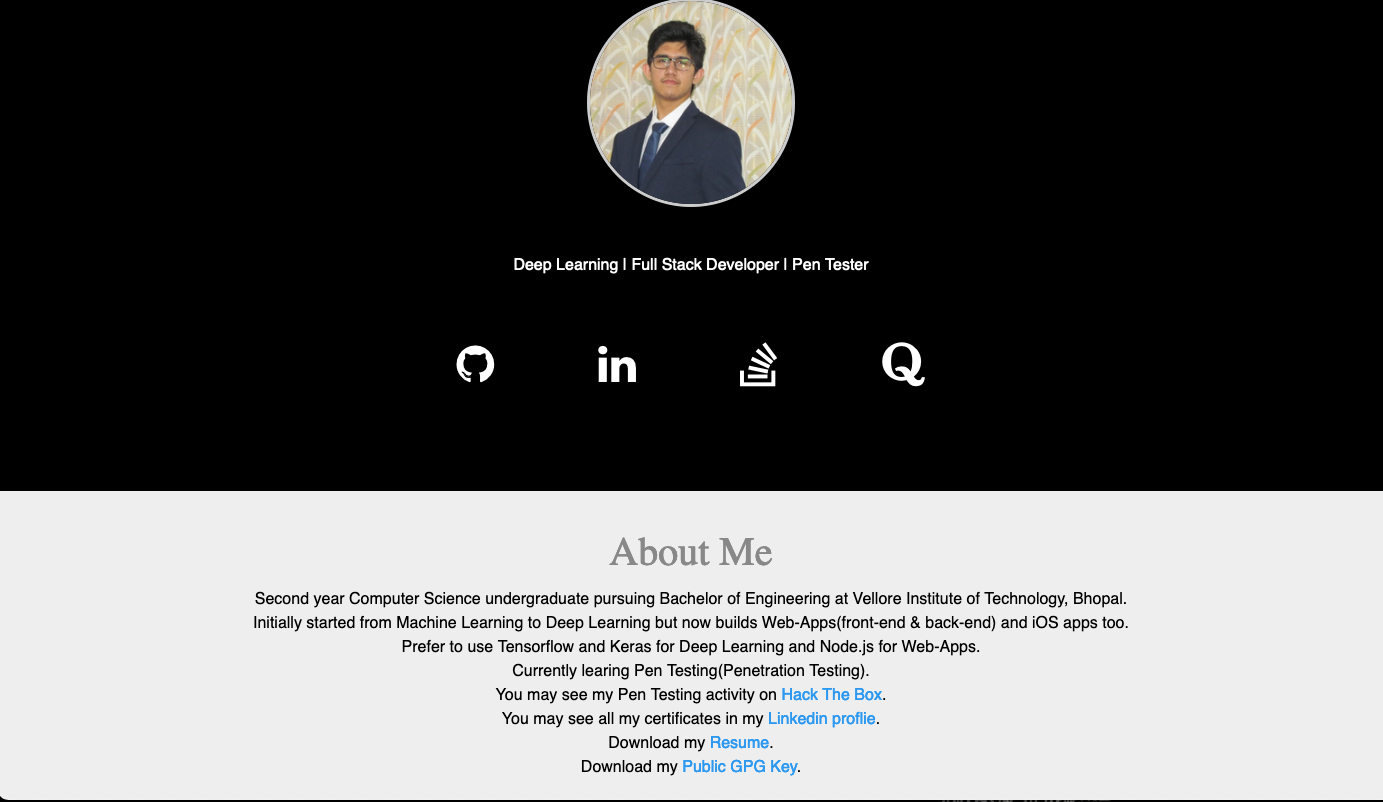
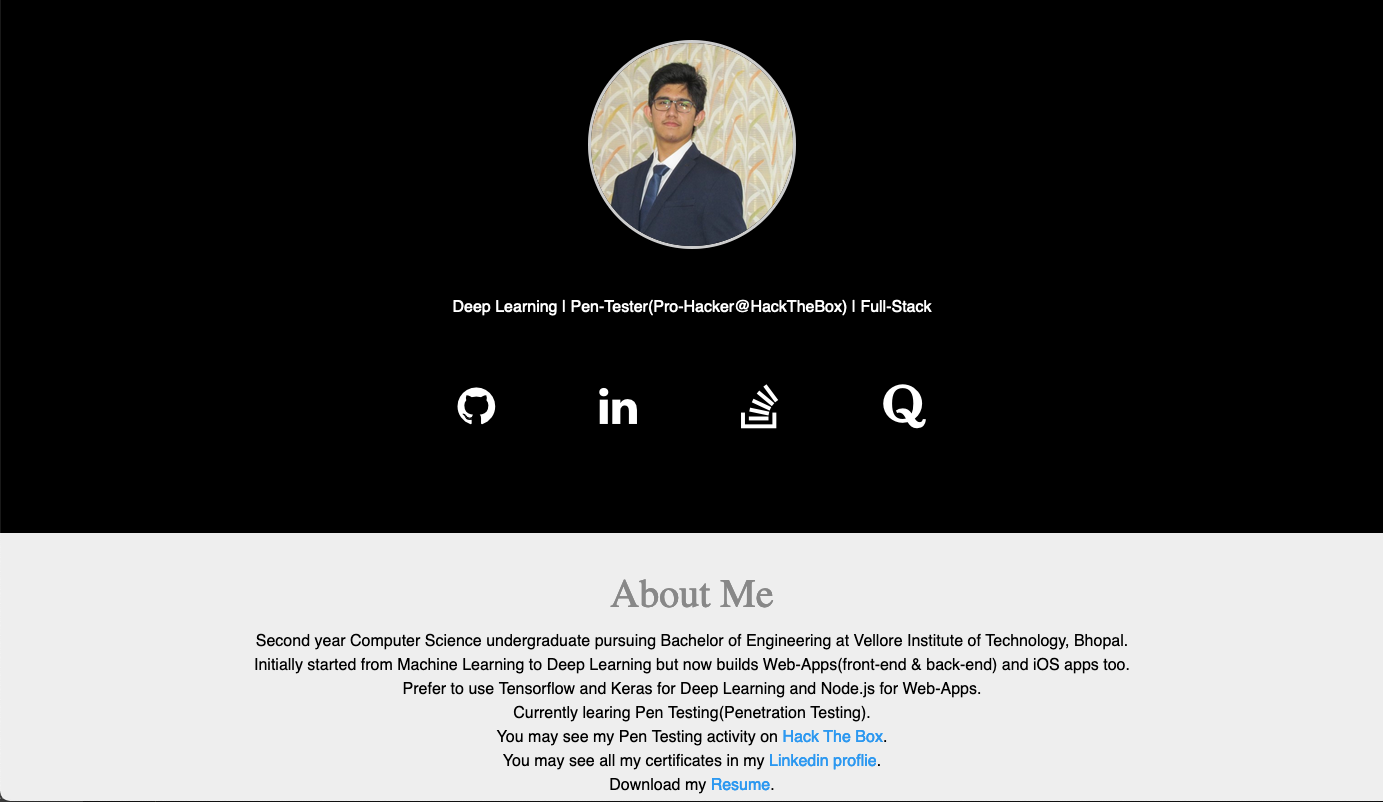
updates

diff --git a/index.html b/index.html
@@ -12,7 +12,7 @@
 	</script>
 
 	<title>Harshit Ruwali</title>
-	<meta charset="utf-8" name = "description" content="Second year Computer Science undergraduate. Deep Learning Enthusiast, Full Stack Developer and Pentester.">
+	<meta charset="utf-8" name = "description" content="Second year Computer Science undergraduate. Deep Learning Enthusiast, Pentester and Full Stack Developer.">
     <!--favicon-->
     <link rel="apple-touch-icon" sizes="180x180" href="img/index/apple-touch-icon.png">
     <link rel="icon" type="image/png" sizes="32x32" href="img/index/favicon-32x32.png">
@@ -52,7 +52,7 @@
         <div class="fixed-content">
             <img alt="Harshit Ruwali" class="port" src="img/pic01.jpg">
             <h2>Harshit Ruwali</h2>
-            <p style="color:#fff;">Deep Learning | Full Stack | Pen Tester</p>
+            <p style="color:#fff;">Deep Learning | Pen-Tester(Pro-Hacker@HackTheBox) | Full-Stack</p>
             <div class="icon-row">
                 <a href="https://github.com/harshitruwali" title="GitHub" target="_blank"><i class="fa fa-github"></i></a>
                 <a href="https://www.linkedin.com/in/harshitruwali/" title="Linkedin" target="_blank"><i class="fa fa-linkedin"></i></a>
@@ -70,10 +70,10 @@
                 
                 Initially started from Machine Learning to Deep Learning but now builds Web-Apps(front-end & back-end) and iOS apps too.<br>
                 Prefer to use Tensorflow and Keras for Deep Learning and Node.js for Web-Apps. <br>
-                Currently learing Pen Testing(Penetration Testing).
-                <br>You may see my Pen Testing activity on <a href="https://www.hackthebox.eu/profile/415817">Hack The Box</a>.
-                <br>You may see all my certificates in my <a href="https://www.linkedin.com/in/harshitruwali/">Linkedin proflie</a>. <br>
-                Download my <a href="resources/Resume.pdf" target="_blank" download="Resume-Harshit-Ruwali.pdf">Resume</a>.<br>
+                Currently learing Pen Testing(Penetration Testing).<br>
+                You may see my Pen-Testing activity on <a href="https://www.hackthebox.eu/profile/415817" target="_blank">Hack The Box</a>.<br>
+                You may see all my certificates in my <a href="https://www.linkedin.com/in/harshitruwali/" target="_blank">Linkedin proflie</a>. <br>
+                Download my <a href="resources/Resume.pdf" target="_blank" download="Resume-Harshit-Ruwali.pdf" target="_blank">Resume</a>.<br>
                 Download my <a href="resources/Harshit Ruwali (325A6F7A) – Public.asc" target="_blank" download="Harshit Ruwali (325A6F7A) – Public.asc">Public GPG Key</a>.
 
             </p>
@@ -122,8 +122,8 @@
             <div class="container">
                 <div class="row">
                     <script type="text/javascript">
-                        var skills = ["Deep Learning", "Full Stack", "iOS Developement", "Git", "Google FireBase", "AWS"];
-                        var value = [90, 90, 85, 90, 90, 90];
+                        var skills = ["Deep Learning", "Pen Testing", "Metasploit", "Full-Stack", " iOS Developement", "AWS", ];
+                        var value = [90, 85, 90, 90, 85, 90];
 
                         for (let i = 0; i < skills.length; i++) {
                             var dir = (i % 2 == 0) ? "Right" : "Left";

diff --git a/competitive-coding.html b/competitive-coding.html
@@ -24,12 +24,26 @@
 </head>
 
 <body>
-
+    <noscript>
+        <h3 id="javascript-disabled">JavaScript is disabled! Enable JavaScript to see the complete page.</h3>
+        <style>
+            #javascript-disabled {
+                text-align: center;
+                padding: 5px;
+                color: #888;
+            }
+            #about {display:none;}
+            #project {display:none;}
+            #skills {display:none;}
+            #experience {display:none;}
+            #project {display:none;}
+        </style>
+    </noscript>
     <div class="header">
         <div class="fixed-content">
-            <img alt="Harshit Ruwali" class="port" src="../img/pic01.jpg">
+            <img alt="Harshit Ruwali" class="port" src="img/pic01.jpg">
             <h2>Harshit Ruwali</h2>
-            <p style="color:#fff;">Deep Learning | Full Stack | Pen Tester</p>
+            <p style="color:#fff;">Deep Learning | Pen-Tester(Pro-Hacker@HackTheBox) | Full-Stack</p>
             <div class="icon-row">
                 <a href="https://github.com/harshitruwali" title="GitHub" target="_blank"><i class="fa fa-github"></i></a>
                 <a href="https://www.linkedin.com/in/harshitruwali/" title="Linkedin" target="_blank"><i class="fa fa-linkedin"></i></a>

diff --git a/deep-learning.html b/deep-learning.html
@@ -24,11 +24,26 @@
 </head>
 
 <body>
+    <noscript>
+        <h3 id="javascript-disabled">JavaScript is disabled! Enable JavaScript to see the complete page.</h3>
+        <style>
+            #javascript-disabled {
+                text-align: center;
+                padding: 5px;
+                color: #888;
+            }
+            #about {display:none;}
+            #project {display:none;}
+            #skills {display:none;}
+            #experience {display:none;}
+            #project {display:none;}
+        </style>
+    </noscript>
     <div class="header">
         <div class="fixed-content">
-            <img alt="Harshit Ruwali" class="port" src="../img/pic01.jpg">
+            <img alt="Harshit Ruwali" class="port" src="img/pic01.jpg">
             <h2>Harshit Ruwali</h2>
-            <p style="color:#fff;">Deep Learning | Full Stack | Pen Tester</p>
+            <p style="color:#fff;">Deep Learning | Pen-Tester(Pro-Hacker@HackTheBox) | Full-Stack</p>
             <div class="icon-row">
                 <a href="https://github.com/harshitruwali" title="GitHub" target="_blank"><i class="fa fa-github"></i></a>
                 <a href="https://www.linkedin.com/in/harshitruwali/" title="Linkedin" target="_blank"><i class="fa fa-linkedin"></i></a>

diff --git a/ios.html b/ios.html
@@ -24,11 +24,26 @@
 </head>
 
 <body>
+    <noscript>
+        <h3 id="javascript-disabled">JavaScript is disabled! Enable JavaScript to see the complete page.</h3>
+        <style>
+            #javascript-disabled {
+                text-align: center;
+                padding: 5px;
+                color: #888;
+            }
+            #about {display:none;}
+            #project {display:none;}
+            #skills {display:none;}
+            #experience {display:none;}
+            #project {display:none;}
+        </style>
+    </noscript>
     <div class="header">
         <div class="fixed-content">
-            <img alt="Harshit Ruwali" class="port" src="../img/pic01.jpg">
+            <img alt="Harshit Ruwali" class="port" src="img/pic01.jpg">
             <h2>Harshit Ruwali</h2>
-            <p style="color:#fff;">Deep Learning | Full Stack | Pen Tester</p>
+            <p style="color:#fff;">Deep Learning | Pen-Tester(Pro-Hacker@HackTheBox) | Full-Stack</p>
             <div class="icon-row">
                 <a href="https://github.com/harshitruwali" title="GitHub" target="_blank"><i class="fa fa-github"></i></a>
                 <a href="https://www.linkedin.com/in/harshitruwali/" title="Linkedin" target="_blank"><i class="fa fa-linkedin"></i></a>

diff --git a/course-solutions.html b/course-solutions.html
@@ -24,11 +24,26 @@
 </head>
 
 <body>
+    <noscript>
+        <h3 id="javascript-disabled">JavaScript is disabled! Enable JavaScript to see the complete page.</h3>
+        <style>
+            #javascript-disabled {
+                text-align: center;
+                padding: 5px;
+                color: #888;
+            }
+            #about {display:none;}
+            #project {display:none;}
+            #skills {display:none;}
+            #experience {display:none;}
+            #project {display:none;}
+        </style>
+    </noscript>
     <div class="header">
         <div class="fixed-content">
             <img alt="Harshit Ruwali" class="port" src="img/pic01.jpg">
             <h2>Harshit Ruwali</h2>
-            <p style="color:#fff;">Deep Learning | Full Stack | Pen Tester</p>
+            <p style="color:#fff;">Deep Learning | Pen-Tester(Pro-Hacker@HackTheBox) | Full-Stack</p>
             <div class="icon-row">
                 <a href="https://github.com/harshitruwali" title="GitHub" target="_blank"><i class="fa fa-github"></i></a>
                 <a href="https://www.linkedin.com/in/harshitruwali/" title="Linkedin" target="_blank"><i class="fa fa-linkedin"></i></a>
